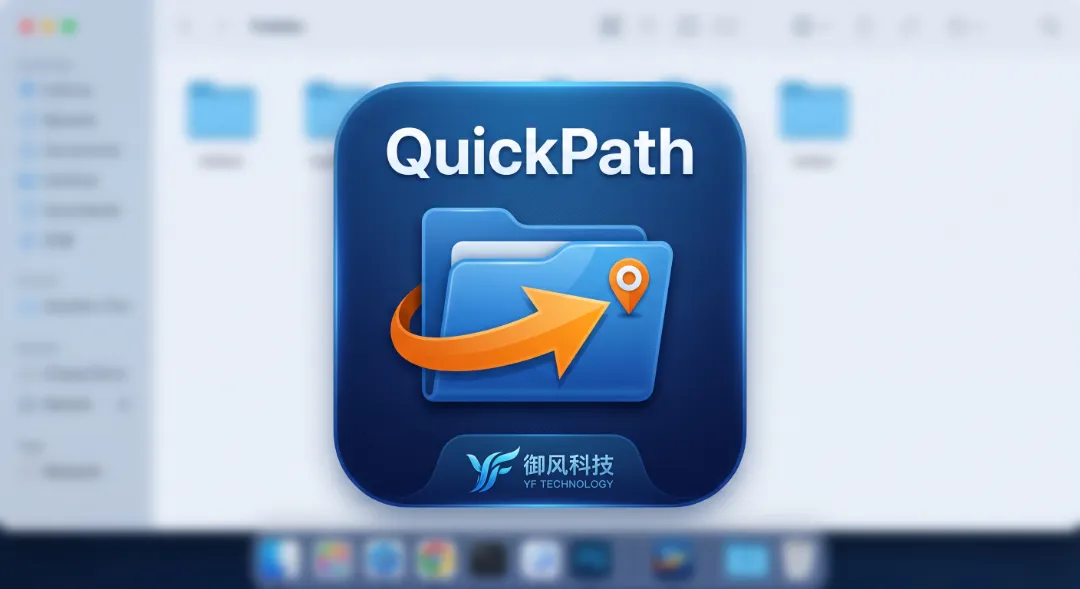
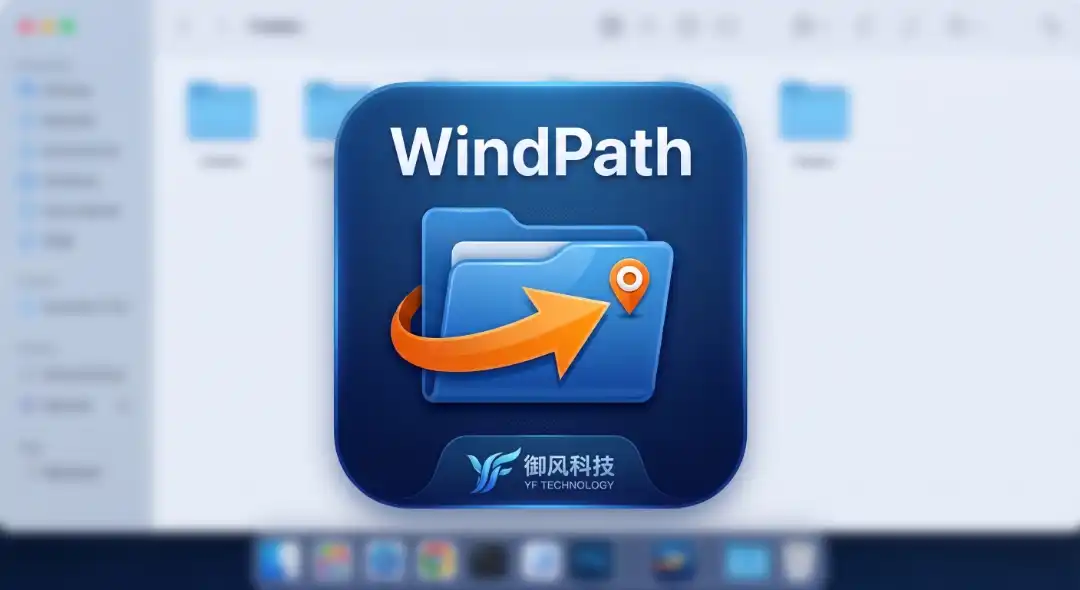
优化设置样式

diff --git a/src/ui/settings.rs b/src/ui/settings.rs
@@ -610,7 +610,7 @@ unsafe fn render_settings_ui(hwnd: HWND, hdc: HDC) {
             .unwrap_or(SettingsTab::General);
         let hovered = HOVER_CARD_IDX.lock().ok().and_then(|h| *h);
 
-        // 1. 顶部 Header 品牌区（主标题 + 副标题）
+        // 1. 顶部 Header 品牌区（主标题）
         let header_text_x = pad_x;
         SelectObject(hdc, HGDIOBJ(font_h1.0 as _));
         SetTextColor(hdc, COLORREF(0x00ffffff));
@@ -618,35 +618,14 @@ unsafe fn render_settings_ui(hwnd: HWND, hdc: HDC) {
         let mut title_buf: Vec<u16> = title_str.encode_utf16().collect();
         let mut title_rect = RECT {
             left: header_text_x,
-            top: (14.0 * scale).round() as i32,
+            top: (16.0 * scale).round() as i32,
             right: rect.right - pad_x,
-            bottom: (34.0 * scale).round() as i32,
+            bottom: (40.0 * scale).round() as i32,
         };
         DrawTextW(
             hdc,
             &mut title_buf,
             &mut title_rect,
-            DT_LEFT | DT_VCENTER | DT_SINGLELINE | DT_NOPREFIX,
-        );
-
-        SelectObject(hdc, HGDIOBJ(font_text.0 as _));
-        SetTextColor(hdc, COLORREF(0x008e8e8e));
-        let sub_str = if bundle.settings.subtitle.is_empty() {
-            "系统集成与智能文件对话框跳转偏好"
-        } else {
-            &bundle.settings.subtitle
-        };
-        let mut sub_buf: Vec<u16> = sub_str.encode_utf16().collect();
-        let mut sub_rect = RECT {
-            left: header_text_x,
-            top: (35.0 * scale).round() as i32,
-            right: rect.right - pad_x,
-            bottom: (50.0 * scale).round() as i32,
-        };
-        DrawTextW(
-            hdc,
-            &mut sub_buf,
-            &mut sub_rect,
             DT_LEFT | DT_VCENTER | DT_SINGLELINE | DT_NOPREFIX,
         );
 
@@ -1993,9 +1972,14 @@ unsafe fn render_log_card(
             DT_LEFT | DT_VCENTER | DT_SINGLELINE | DT_NOPREFIX,
         );
 
-        // 日志路径（小字，超长省略，避免撑破卡片）
+        // 日志路径（小字，超长省略，避免撑破卡片；悬停时高亮显示）
         SelectObject(hdc, HGDIOBJ(font_small.0 as _));
-        SetTextColor(hdc, COLORREF(0x00909090));
+        let path_color = if is_card_hovered && !is_button_hovered {
+            COLORREF(0x00ffcd60) // 悬停 Fluent Accent 亮天蓝
+        } else {
+            COLORREF(0x00909090)
+        };
+        SetTextColor(hdc, path_color);
         let mut path_buf: Vec<u16> = path_text.encode_utf16().collect();
         let mut path_rect = RECT {
             left: inner_x,
@@ -2107,7 +2091,7 @@ unsafe fn render_about_card(
         SetTextColor(hdc, COLORREF(0x00ffffff));
         let ver_name = if bundle.about.version.is_empty() {
             format!(
-                "v{} 正式版 (原生极速 · 极简轻量)",
+                "v{} 正式版",
                 crate::rules::version::APP_VERSION
             )
         } else {
@@ -2157,7 +2141,7 @@ unsafe fn render_about_card(
             DT_LEFT | DT_VCENTER | DT_SINGLELINE | DT_END_ELLIPSIS,
         );
 
-        // 行 3: 出品方及官网链接（衢州御风科技有限公司 · qp.yftec.top ↗）
+        // 行 3: 出品方及官网链接（衢州御风科技有限公司 · wp.yftec.top ↗）
         SelectObject(hdc, HGDIOBJ(font_normal.0 as _));
         let is_hov_web = hovered == Some(20);
         let web_color = if is_hov_web {
@@ -2171,7 +2155,7 @@ unsafe fn render_about_card(
         } else {
             &bundle.about.company
         };
-        let line2 = format!("{}  ·  qp.yftec.top ↗", company_text);
+        let line2 = format!("{}  ·  wp.yftec.top ↗", company_text);
         let mut buf2: Vec<u16> = line2.encode_utf16().collect();
         let mut r2 = RECT {
             left: text_x,
@@ -4283,7 +4267,7 @@ fn handle_settings_mouse_down(hwnd: HWND, x: i32, y: i32) {
                 let gh_bottom = card5_top + (90.0 * scale).round() as i32;
 
                 if x >= text_x && x <= text_right && y >= web_top && y <= web_bottom {
-                    let url: Vec<u16> = "https://qp.yftec.top\0".encode_utf16().collect();
+                    let url: Vec<u16> = "https://wp.yftec.top\0".encode_utf16().collect();
                     let op: Vec<u16> = "open\0".encode_utf16().collect();
                     unsafe {
                         ShellExecuteW(
@@ -4324,6 +4308,9 @@ fn handle_settings_mouse_down(hwnd: HWND, x: i32, y: i32) {
                         }
                         IS_RECORDING_HOTKEY.store(false, Ordering::SeqCst);
                         need_redraw = true;
+                    }
+                    Some(HOVER_ID_LOG_CARD) => {
+                        crate::dialog::detector::open_debug_log();
                     }
                     Some(HOVER_ID_DEBUG_CHECKBOX) => {
                         let cur = crate::dialog::detector::is_debug_mode_enabled();

diff --git a/src/dialog/detector.rs b/src/dialog/detector.rs
@@ -511,6 +511,77 @@ pub fn clear_debug_logs() -> bool {
     }
 }
 
+/// 确保日志文件存在；若不存在则自动创建父目录并创建空文件。
+fn ensure_log_file_exists(path: &Path) -> std::io::Result<()> {
+    if !path.exists() {
+        if let Some(parent) = path.parent() {
+            std::fs::create_dir_all(parent)?;
+        }
+        std::fs::OpenOptions::new()
+            .create(true)
+            .append(true)
+            .open(path)?;
+    }
+    Ok(())
+}
+
+/// 直接打开日志文件供查看。
+///
+/// 若日志文件尚未存在（例如已被清理或尚未产生调试日志），
+/// 会先自动创建空文件，避免操作系统弹出“文件不存在”等错误。
+/// 在 Windows 下使用系统默认关联程序打开；若关联程序不可用或返回失败，则回退至 notepad.exe。
+pub fn open_debug_log() -> bool {
+    let Some(path) = debug_log_path() else {
+        return false;
+    };
+
+    if ensure_log_file_exists(path).is_err() {
+        return false;
+    }
+
+    #[cfg(windows)]
+    {
+        use std::os::windows::ffi::OsStrExt;
+        let mut path_w: Vec<u16> = path.as_os_str().encode_wide().collect();
+        path_w.push(0);
+        let op: Vec<u16> = "open\0".encode_utf16().collect();
+        unsafe {
+            use windows::Win32::UI::Shell::ShellExecuteW;
+            use windows::Win32::UI::WindowsAndMessaging::SW_SHOW;
+            let ret = ShellExecuteW(
+                None,
+                windows::core::PCWSTR(op.as_ptr()),
+                windows::core::PCWSTR(path_w.as_ptr()),
+                windows::core::PCWSTR::null(),
+                windows::core::PCWSTR::null(),
+                SW_SHOW,
+            );
+            // ShellExecute 返回 HINSTANCE，若大于 32 则成功
+            if ret.0 as usize <= 32 {
+                let notepad: Vec<u16> = "notepad.exe\0".encode_utf16().collect();
+                let ret_np = ShellExecuteW(
+                    None,
+                    windows::core::PCWSTR(op.as_ptr()),
+                    windows::core::PCWSTR(notepad.as_ptr()),
+                    windows::core::PCWSTR(path_w.as_ptr()),
+                    windows::core::PCWSTR::null(),
+                    SW_SHOW,
+                );
+                return ret_np.0 as usize > 32;
+            }
+            true
+        }
+    }
+
+    #[cfg(not(windows))]
+    {
+        let _ = std::process::Command::new("xdg-open")
+            .arg(path)
+            .spawn();
+        true
+    }
+}
+
 #[derive(Debug, Clone)]
 pub struct FileDialogInfo {
     pub hwnd: HWND,
@@ -1812,5 +1883,27 @@ mod debug_log_tests {
             "无法删除时必须上报失败"
         );
         let _ = std::fs::remove_dir_all(&dir);
+    }
+
+    /// `ensure_log_file_exists`：文件不存在时自动创建父级目录与空文件；已存在时不覆盖。
+    #[test]
+    fn test_ensure_log_file_exists() {
+        let dir = std::env::temp_dir()
+            .join(format!("windpath_ensure_test_{}", std::process::id()))
+            .join("sub_logs");
+        let _ = std::fs::remove_dir_all(&dir);
+        let path = dir.join("test_ensure.log");
+
+        assert!(!path.exists());
+        assert!(ensure_log_file_exists(&path).is_ok());
+        assert!(path.exists());
+
+        // 写入内容验证不会被清空或覆盖
+        std::fs::write(&path, b"keep_me").unwrap();
+        assert!(ensure_log_file_exists(&path).is_ok());
+        let content = std::fs::read_to_string(&path).unwrap();
+        assert_eq!(content, "keep_me");
+
+        let _ = std::fs::remove_dir_all(dir.parent().unwrap());
     }
 }

diff --git a/src/monitor/window/tooltip.rs b/src/monitor/window/tooltip.rs
@@ -170,7 +170,7 @@ impl TooltipData {
             .map(|v| format!("{:.0}%", v))
             .unwrap_or_else(|| "--%".to_string());
         let gpu_lbl = if bundle.monitor.tooltip_gpu.is_empty() {
-            "独 立 显 卡"
+            "独立显卡"
         } else {
             &bundle.monitor.tooltip_gpu
         };
@@ -1188,7 +1188,7 @@ unsafe extern "system" fn tooltip_wnd_proc(
                 && y >= inner.producer_rect.top
                 && y <= inner.producer_rect.bottom
             {
-                let url: Vec<u16> = "https://qp.yftec.top\0".encode_utf16().collect();
+                let url: Vec<u16> = "https://wp.yftec.top\0".encode_utf16().collect();
                 let op: Vec<u16> = "open\0".encode_utf16().collect();
                 let _ = ShellExecuteW(
                     None,
@@ -1332,7 +1332,7 @@ mod tests {
         assert_eq!(data.lines[4].icon, MetricIconKind::Gpu);
         assert_eq!(
             data.lines[4].text,
-            "独 立 显 卡: 2% (1.4 GB / 4.2 GB) (Top: dwm.exe)"
+            "独立显卡: 2% (1.4 GB / 4.2 GB) (Top: dwm.exe)"
         );
 
         assert_eq!(data.lines[5].icon, MetricIconKind::Disk);
@@ -1423,7 +1423,7 @@ mod tests {
         let data_zh = TooltipData::from_snapshot(&snap, &Language::ZhCN);
         let data_en = TooltipData::from_snapshot(&snap, &Language::EnUS);
 
-        assert_eq!(data_zh.lines[4].text, "独 立 显 卡: 2% (显存: --)");
+        assert_eq!(data_zh.lines[4].text, "独立显卡: 2% (显存: --)");
         assert_eq!(data_en.lines[4].text, "GPU: 2% (VRAM: --)");
     }
 

diff --git a/src/ui/floating_bar.rs b/src/ui/floating_bar.rs
@@ -1042,13 +1042,13 @@ fn handle_mouse_click(hwnd: HWND, x: i32, y: i32) {
         }
     }
 
-    // 1. 点击顶栏右侧出品方文字 -> 跳转官网 https://qp.yftec.top 并隐藏浮动栏
+    // 1. 点击顶栏右侧出品方文字 -> 跳转官网 https://wp.yftec.top 并隐藏浮动栏
     if x >= state.producer_rect.left
         && x <= state.producer_rect.right
         && y >= state.producer_rect.top
         && y <= state.producer_rect.bottom
     {
-        let url: Vec<u16> = "https://qp.yftec.top\0".encode_utf16().collect();
+        let url: Vec<u16> = "https://wp.yftec.top\0".encode_utf16().collect();
         let op: Vec<u16> = "open\0".encode_utf16().collect();
         unsafe {
             ShellExecuteW(

diff --git a/src/rules/i18n.rs b/src/rules/i18n.rs
@@ -732,7 +732,7 @@ impl I18n {
         if !b.about.website.is_empty() {
             &b.about.website
         } else {
-            "https://qp.yftec.top"
+            "https://wp.yftec.top"
         }
     }
 

diff --git a/task.md b/task.md
@@ -44,3 +44,19 @@
   - [x] 10.2 修改 `src/monitor/window/tooltip.rs` 中的内存格式化逻辑，精简为 `内存: {percent}% ({used} GB / {total} GB)`
   - [x] 10.3 同步更新 `src/monitor/window/tooltip.rs` 的单元测试断言
   - [x] 10.4 运行 `cargo test` 验证修改并确保通过
+- [x] 11. 移除设置中心副标题文案与渲染
+  - [x] 11.1 从 `locales/zh-CN.toml` 与 `locales/en-US.toml` 中移除 `subtitle`
+  - [x] 11.2 从 `src/ui/settings.rs` 中移除设置中心副标题的绘制逻辑，并优化主标题上下居中对齐
+  - [x] 11.3 运行全量单元测试与编译检查验证
+- [x] 12. 点击日志路径支持直接打开查看
+  - [x] 12.1 在 `src/dialog/detector.rs` 中实现 `open_debug_log()`，处理文件预检/自动创建及打开与回退逻辑
+  - [x] 12.2 在 `src/ui/settings.rs` 的点击事件中对接 `HOVER_ID_LOG_CARD` 处理
+  - [x] 12.3 优化 `render_log_card` 中日志路径的悬停高亮反馈（Fluent Accent 亮天蓝）
+  - [x] 12.4 编写针对 `open_debug_log` 及日志交互的相关单元测试
+  - [x] 12.5 运行全量单元测试与 `cargo check` 验证
+- [x] 13. 删除中文对应版本信息中的“(原生极速 · 极简轻量)”
+  - [x] 13.1 更新 `locales/zh-CN.toml`，将版本文案调整为 `"v{version} 正式版"`
+  - [x] 13.2 更新 `src/ui/settings.rs` 中的 fallback 缺省版本文本为 `"v{} 正式版"`
+  - [x] 13.3 运行单元测试与编译检查验证
+
+
